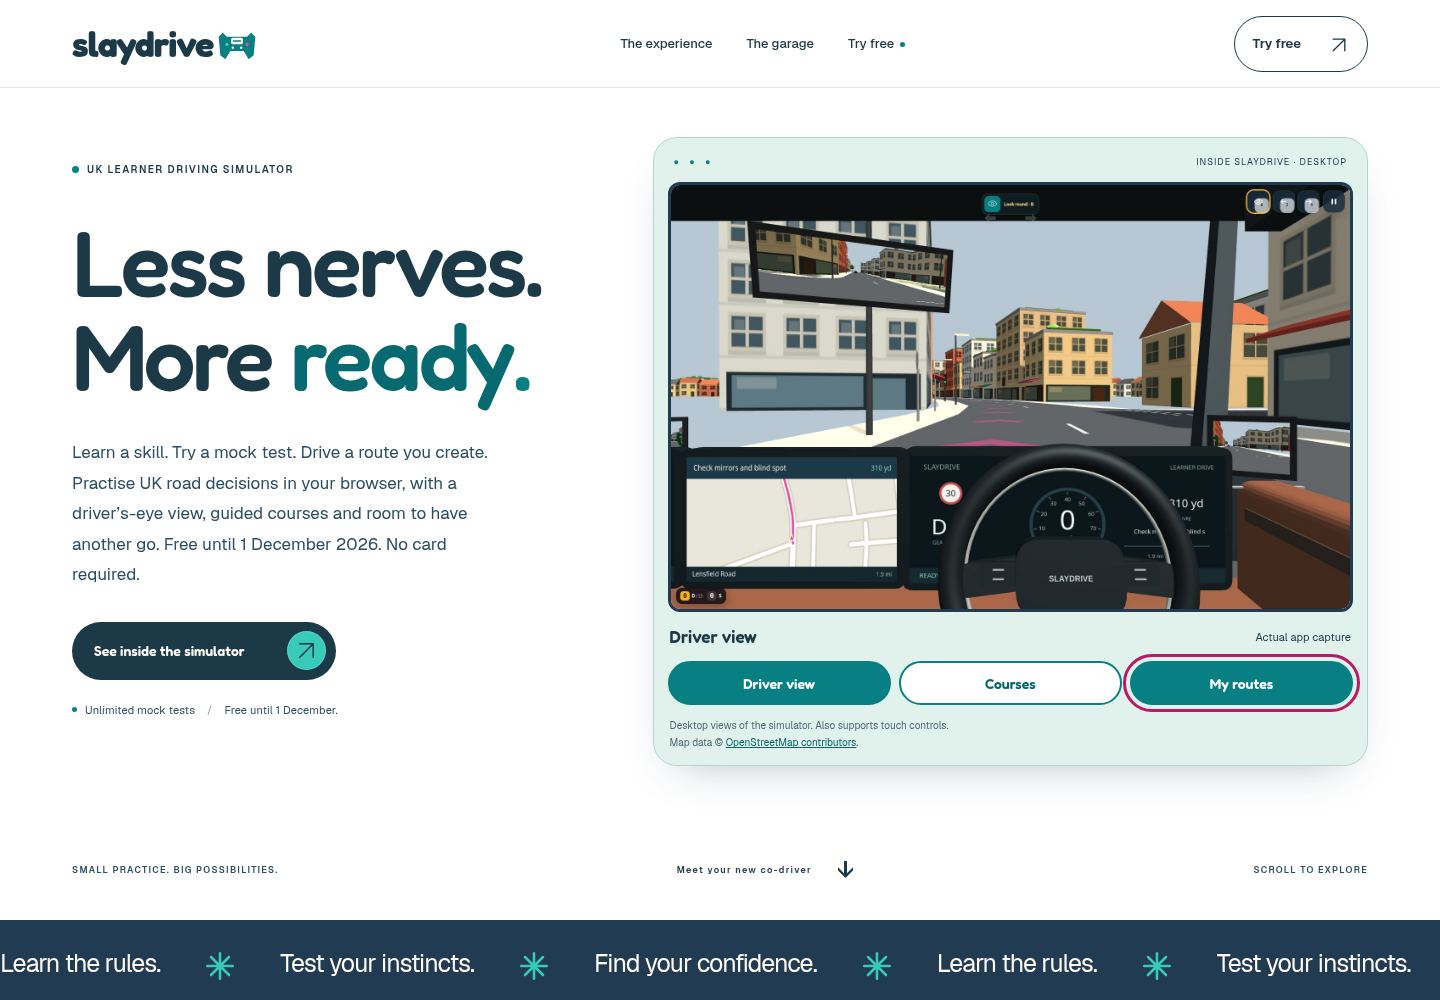
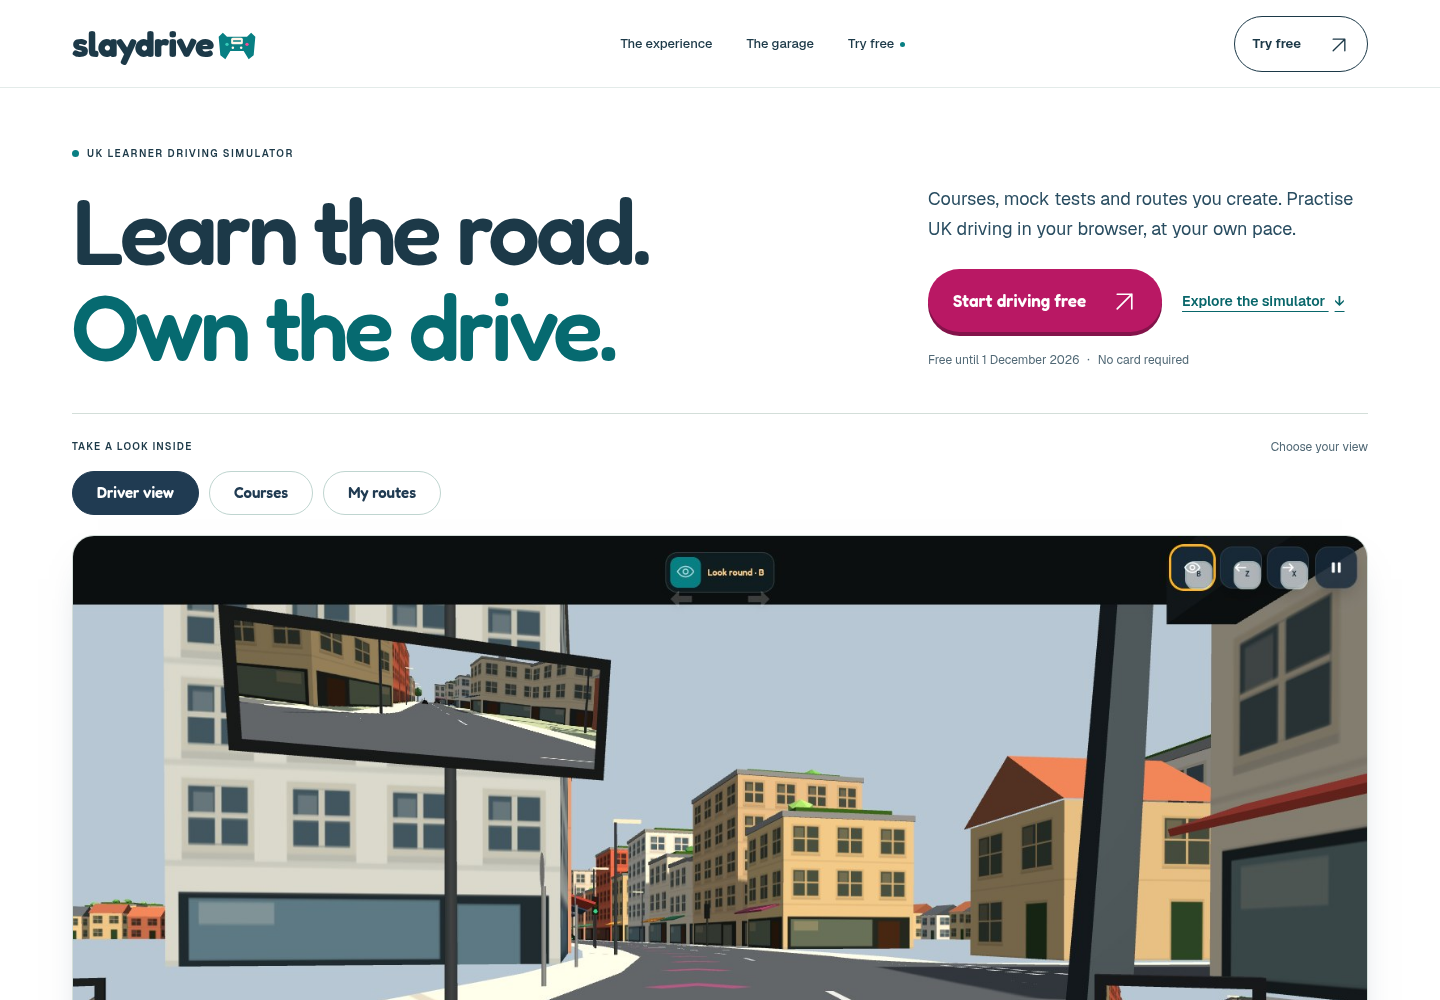
Refine hero with a broad driving view and direct free-play action

diff --git a/src/editorial.css b/src/editorial.css
@@ -189,19 +189,30 @@
 .screen-gallery figcaption a{display:inline-block;margin-left:8px;color:#08666a;text-decoration:underline;text-underline-offset:3px}
 .capture-note{font-size:12px;line-height:1.7;color:#506875;margin-top:16px}
 .capture-note a{color:#08666a;text-decoration:underline}
-.desktop-hero{align-self:center;min-width:0;background:#e1f2ed;border:1px solid #b4d5cf;border-radius:24px;padding:14px;box-shadow:0 18px 44px -25px #203b5266}
-.desktop-hero-bar{display:flex;justify-content:space-between;align-items:center;gap:10px;padding:4px 6px 14px;font-size:9px;letter-spacing:1px;color:#203b52}
-.desktop-hero-bar>span:first-child{color:#087f83;letter-spacing:4px}
+/* A broad gameplay stage with a compact introduction, rather than a framed card. */
+.marketing-home .hero{display:block;padding-top:58px;padding-bottom:56px}
+.marketing-home .hero-copy{display:grid;grid-template-columns:1.15fr 1fr;gap:48px;align-items:end;padding:0;margin:0 0 38px}
+.marketing-home .hero h1{font-size:clamp(54px,6.4vw,94px);line-height:1.04;letter-spacing:-.045em;margin:22px 0 0}
+.marketing-home .hero .hero-description{max-width:440px;font-size:18px;line-height:1.7;margin:0 0 24px}
+.hero-intro{padding-bottom:4px;justify-self:end}
+.hero-actions{display:flex;align-items:center;gap:20px;flex-wrap:wrap}
+.marketing-home .hero .hero-play{display:inline-flex;align-items:center;gap:26px;background:#b91864;color:white;border:0;border-radius:999px;padding:18px 25px;min-height:56px;font-size:17px;box-shadow:0 4px 0 #83134a;transition:background .15s,transform .15s}
+.marketing-home .hero .hero-play:hover{background:#981152;transform:translateY(-2px)}
+.hero-play span{font-size:25px;line-height:1}.hero-explore{font-size:14px;font-weight:600;color:#08666a;text-decoration:underline;text-underline-offset:5px}.hero-explore span{margin-left:6px}
+.hero-offer{font-size:12px;line-height:1.7;margin:18px 0 0;color:#506875}.hero-offer span{margin:0 5px}
+.desktop-hero{position:relative;min-width:0;max-width:none;background:transparent;border:0;border-radius:0;padding:0;box-shadow:none}
+.hero-preview-heading{display:flex;justify-content:space-between;align-items:center;border-top:1px solid #d3ded9;padding-top:25px;margin-bottom:16px}
+.hero-preview-heading .eyebrow{font-size:10px;letter-spacing:.12em}.hero-preview-hint{font-size:12px;color:#506875}
 .desktop-hero figure{margin:0}.desktop-hero [hidden]{display:none!important}
-.desktop-hero img{display:block;width:100%;height:auto;border:3px solid #203b52;border-radius:12px}
-.desktop-hero figcaption{display:flex;justify-content:space-between;gap:12px;padding:14px 2px;font:600 17px "Fredoka Variable",sans-serif;color:#1c3948}
+.desktop-hero img{display:block;width:100%;height:auto;border:1px solid #d3ded9;border-radius:22px;box-shadow:0 18px 40px -26px #203b5280}
+.desktop-hero figcaption{display:flex;justify-content:space-between;gap:12px;padding:17px 2px 0;font:600 17px "Fredoka Variable",sans-serif;color:#1c3948}
 .desktop-hero figcaption span{font:400 11px "Geist Variable",sans-serif;align-self:center}
-.desktop-hero-controls{display:flex;gap:8px}.desktop-hero-controls button{flex:1;min-height:44px;padding:9px;border:2px solid #087f83;border-radius:999px;font:600 14px "Fredoka Variable",sans-serif;background:#fff;color:#08666a;cursor:pointer}
-.desktop-hero-controls button[aria-pressed=true],.desktop-hero-controls button:hover{background:#087f83;color:#fff}
-.desktop-hero:focus-visible,.desktop-hero-controls button:focus-visible{outline:3px solid #bb1964;outline-offset:4px}
-.desktop-hero-note{font-size:10px;line-height:1.7;margin:12px 2px 0;color:#506875}.desktop-hero-note a{color:#08666a;text-decoration:underline}
-@media(min-width:801px){.marketing-home .hero{grid-template-columns:.85fr 1.15fr;gap:0 4%}.marketing-home h1{font-size:clamp(62px,6.4vw,98px)}}
-@media(max-width:600px){.desktop-hero{padding:10px;border-radius:18px}.desktop-hero-controls button{font-size:13px;padding:8px 5px}.desktop-hero figcaption{font-size:16px}}
+.desktop-hero-controls{display:flex;gap:10px;margin-bottom:20px}.desktop-hero-controls button{min-height:44px;padding:11px 24px;border:1px solid #bfd5d0;border-radius:999px;font:600 15px "Fredoka Variable",sans-serif;background:#fff;color:#203b52;cursor:pointer}
+.desktop-hero-controls button[aria-pressed=true]{background:#203b52;border-color:#203b52;color:white}.desktop-hero-controls button:hover:not([aria-pressed=true]){background:#e1f2ed;border-color:#087f83;color:#08666a}
+.desktop-hero:focus-visible,.desktop-hero-controls button:focus-visible,.hero-play:focus-visible,.hero-explore:focus-visible{outline:3px solid #bb1964;outline-offset:4px}
+.desktop-hero-note{font-size:11px;line-height:1.7;margin:8px 2px 0;color:#506875}.desktop-hero-note a{color:#08666a;text-decoration:underline}
+@media(max-width:900px){.marketing-home .hero-copy{grid-template-columns:1fr;gap:22px}.hero-intro{justify-self:start}.marketing-home .hero .hero-description{max-width:580px}.marketing-home .hero h1{font-size:clamp(51px,10vw,80px)}}
+@media(max-width:600px){.marketing-home .hero{padding-top:32px;padding-bottom:32px}.marketing-home .hero-copy{margin-bottom:28px}.marketing-home .hero h1{font-size:clamp(44px,11.4vw,66px);margin-top:18px}.marketing-home .hero .hero-description{font-size:16px;line-height:1.65;margin-bottom:20px}.hero-actions{gap:20px}.marketing-home .hero .hero-play{font-size:16px;min-height:52px;padding:15px 22px}.hero-explore{font-size:13px}.hero-offer{font-size:11px}.desktop-hero-controls{gap:7px;margin-bottom:14px}.desktop-hero-controls button{flex:1;padding:10px 5px;font-size:13px}.desktop-hero img{border-radius:14px}.desktop-hero figcaption{font-size:16px}.hero-preview-heading{padding-top:20px}.hero-preview-hint{font-size:11px}}
 @media(max-width:600px){.screen-tabs{gap:8px}.screen-tabs button{flex:1 1 calc(50% - 8px);padding:10px;font-size:14px}.screen-gallery figcaption{font-size:13px}.experience-details{gap:28px}}
 .marketing-home .cambridge > .button { align-self:flex-start; }
 .marketing-home .next { width:100%; max-width:none; margin:0; border-radius:0; background:#e1f2ed; }
@@ -306,3 +317,5 @@
 @media(max-width:800px) {
  .garage-left #selected-car-image { max-width:380px; height:250px; }
 }
+
+.footer-map-credit{padding:0 5% 24px;margin:0;font-size:11px;line-height:1.7;color:#506875}.footer-map-credit a{color:#08666a;text-decoration:underline;text-underline-offset:3px}

diff --git a/index.html b/index.html
@@ -72,46 +72,23 @@
     <main id="main">
       <section class="hero" aria-labelledby="hero-title">
         <div class="hero-copy">
-          <div class="eyebrow">
-            <span class="status-dot"></span> UK LEARNER DRIVING SIMULATOR
+          <div class="hero-heading">
+            <div class="eyebrow"><span class="status-dot"></span> UK LEARNER DRIVING SIMULATOR</div>
+            <h1 id="hero-title">Learn the road.<br /><span class="open-word">Own the drive.</span></h1>
           </div>
-          <h1 id="hero-title">
-            Less nerves.<br />More
-            <span class="open-word"
-              >ready<svg viewBox="0 0 370 24" aria-hidden="true">
-                <path
-                  d="M4 16 Q168 -6 363 12 M42 22 Q188 7 319 18"
-                /></svg></span
-            ><span class="orange-period">.</span>
-          </h1>
-          <p class="hero-description">
-            Learn a skill. Try a mock test. Drive a route you create.
-            Practise UK road decisions in your browser, with a driver’s-eye view,
-            guided courses and room to have another go. Free until 1 December 2026. No card required.
-          </p>
-          <a class="button button-dark" href="#experience"
-            >See inside the simulator
-            <span class="button-arrow" aria-hidden="true"
-              ><svg class="icon-arrow" viewBox="0 0 24 24" aria-hidden="true">
-                <path d="M5 19 19 5M5 5h14v14" /></svg></span
-          ></a>
-          <div class="hero-location">
-            <span class="status-dot"></span> Unlimited mock tests
-            <span class="location-divider">/</span> Free until 1 December.
+          <div class="hero-intro">
+            <p class="hero-description">Courses, mock tests and routes you create. Practise UK driving in your browser, at your own pace.</p>
+            <div class="hero-actions"><a class="button hero-play" href="https://app.slaydrive.com/">Start driving free <span aria-hidden="true"><svg class="icon-arrow" viewBox="0 0 24 24" aria-hidden="true"><path d="M5 19 19 5M5 5h14v14" /></svg></span></a><a class="hero-explore" href="#experience">Explore the simulator <span aria-hidden="true">↓</span></a></div>
+            <p class="hero-offer">Free until 1 December 2026 <span aria-hidden="true">·</span> No card required</p>
           </div>
         </div>
         <div class="desktop-hero" tabindex="0" role="region" aria-roledescription="carousel" aria-label="Desktop app previews. Use the buttons or arrow keys to browse.">
-          <div class="desktop-hero-bar"><span aria-hidden="true">● ● ●</span><span>INSIDE SLAYDRIVE · DESKTOP</span></div>
+          <div class="hero-preview-heading"><span class="eyebrow">TAKE A LOOK INSIDE</span><span class="hero-preview-hint">Choose your view</span></div>
+          <div class="desktop-hero-controls" role="group" aria-label="Choose a desktop screenshot"><button type="button" data-hero-pick="cockpit" aria-pressed="true">Driver view</button><button type="button" data-hero-pick="courses" aria-pressed="false">Courses</button><button type="button" data-hero-pick="my-routes" aria-pressed="false">My routes</button></div>
           <figure data-hero-screen="cockpit"><a href="/media/current/cockpit.jpg" target="_blank" rel="noopener" aria-label="Open full-size driver view screenshot in a new tab"><img src="/media/current/cockpit.jpg" width="1600" height="1000" fetchpriority="high" decoding="async" alt="Driver’s-eye cockpit with mirrors and route navigation" /></a><figcaption>Driver view <span>Actual app capture</span></figcaption></figure>
           <figure data-hero-screen="courses" hidden><a href="/media/current/courses.jpg" target="_blank" rel="noopener" aria-label="Open full-size courses screenshot in a new tab"><img src="/media/current/courses.jpg" width="1600" height="1000" loading="lazy" decoding="async" alt="Desktop course menu with lessons, instructions and marking choices" /></a><figcaption>Courses <span>Actual app capture</span></figcaption></figure>
           <figure data-hero-screen="my-routes" hidden><a href="/media/current/my-routes.jpg" target="_blank" rel="noopener" aria-label="Open full-size my routes screenshot in a new tab"><img src="/media/current/my-routes.jpg" width="1600" height="1000" loading="lazy" decoding="async" alt="Cambridge route builder with start and finish pins and saved route controls" /></a><figcaption>My routes <span>Actual app capture</span></figcaption></figure>
-          <div class="desktop-hero-controls" role="group" aria-label="Choose a desktop screenshot"><button type="button" data-hero-pick="cockpit" aria-pressed="true">Driver view</button><button type="button" data-hero-pick="courses" aria-pressed="false">Courses</button><button type="button" data-hero-pick="my-routes" aria-pressed="false">My routes</button></div><p class="desktop-hero-note">Desktop views of the simulator. Also supports touch controls.<br />Map data © <a href="https://www.openstreetmap.org/copyright">OpenStreetMap contributors</a>.</p></div>
-        <div class="hero-foot">
-          <span>SMALL PRACTICE. BIG POSSIBILITIES.</span
-          ><a href="#perspective"
-            >Meet your new co-driver <span aria-hidden="true">↓</span></a
-          ><span>SCROLL TO EXPLORE</span>
-        </div>
+</div>
       </section>
       <div class="ticker" aria-hidden="true">
         <div>
@@ -377,6 +354,7 @@
         ><span>LEARN THE RULES. OPEN YOUR WORLD.</span
         ><a href="/terms-of-use/">Terms of Use</a><button class="privacy-button" id="privacy-open">Privacy</button>
       </div>
+      <p class="footer-map-credit">Map data © <a href="https://www.openstreetmap.org/copyright">OpenStreetMap contributors</a> · <a href="https://opendatacommons.org/licenses/odbl/">ODbL</a></p>
     </footer>
     <dialog id="privacy-dialog" aria-labelledby="privacy-title">
       <button class="dialog-close" aria-label="Close privacy information">

diff --git a/tests/site.spec.js b/tests/site.spec.js
@@ -159,7 +159,7 @@ test('desktop hero supports buttons and keyboard browsing without autoplay', asy
   await page.keyboard.press('Home');await expect(hero.locator('[data-hero-screen="cockpit"]')).toBeVisible();
   const sections=await page.locator('main > section').evaluateAll(els=>els.slice(0,3).map(el=>el.id||'hero'));
   expect(sections).toEqual(['hero','experience','perspective']);
-  for(const width of [1440,390]){await page.setViewportSize({width,height:1000});await page.evaluate(()=>scrollTo(0,0));await page.screenshot({path:`test-results/hero-${width}.png`});}
+  for(const width of [1440,390]){await page.setViewportSize({width,height:1000});await page.evaluate(()=>{scrollTo(0,0);document.activeElement?.blur();});await page.mouse.move(0,0);await page.screenshot({path:`test-results/hero-${width}.png`});}
 });
 
 test('car collection scrolls one card with keyboard and supports dragging', async ({ page }) => {

diff --git a/docs/CONTENT-SHOWCASE-UPDATE.md b/docs/CONTENT-SHOWCASE-UPDATE.md
@@ -48,3 +48,7 @@ Broad “best sim” searches can describe racing, flight or other simulators. T
 Sources: [Google UK suggestions for driving simulator UK](https://suggestqueries.google.com/complete/search?client=firefox&hl=en&gl=gb&q=driving+simulator+uk), [learner driving simulator](https://suggestqueries.google.com/complete/search?client=firefox&hl=en&gl=gb&q=learner+driving+simulator), [driving simulator online](https://suggestqueries.google.com/complete/search?client=firefox&hl=en&gl=gb&q=driving+simulator+online), [mock driving test simulator](https://suggestqueries.google.com/complete/search?client=firefox&hl=en&gl=gb&q=mock+driving+test+simulator).
 
 [Google Search documentation](https://developers.google.com/search/docs/crawling-indexing/special-tags) confirms that the meta-keyword tag has no effect on indexing or ranking. Keywords are used naturally in real page titles, descriptions, headings and matching content instead.
+
+## Hero refinement
+
+The hero uses a compact two-column introduction above a broad desktop screenshot, with the heading “Learn the road. Own the drive.” A pink **Start driving free** action opens the app directly; the secondary link leads to the feature showcase. The former mint frame, mock browser bar and repeated introductory copy are removed. Mobile uses the same content in a single column. Screenshot buttons remain keyboard accessible and do not autoplay. The separate map-attribution line is removed from the hero and retained in the footer and detailed gallery. Attribution embedded in actual map screenshots is preserved.
